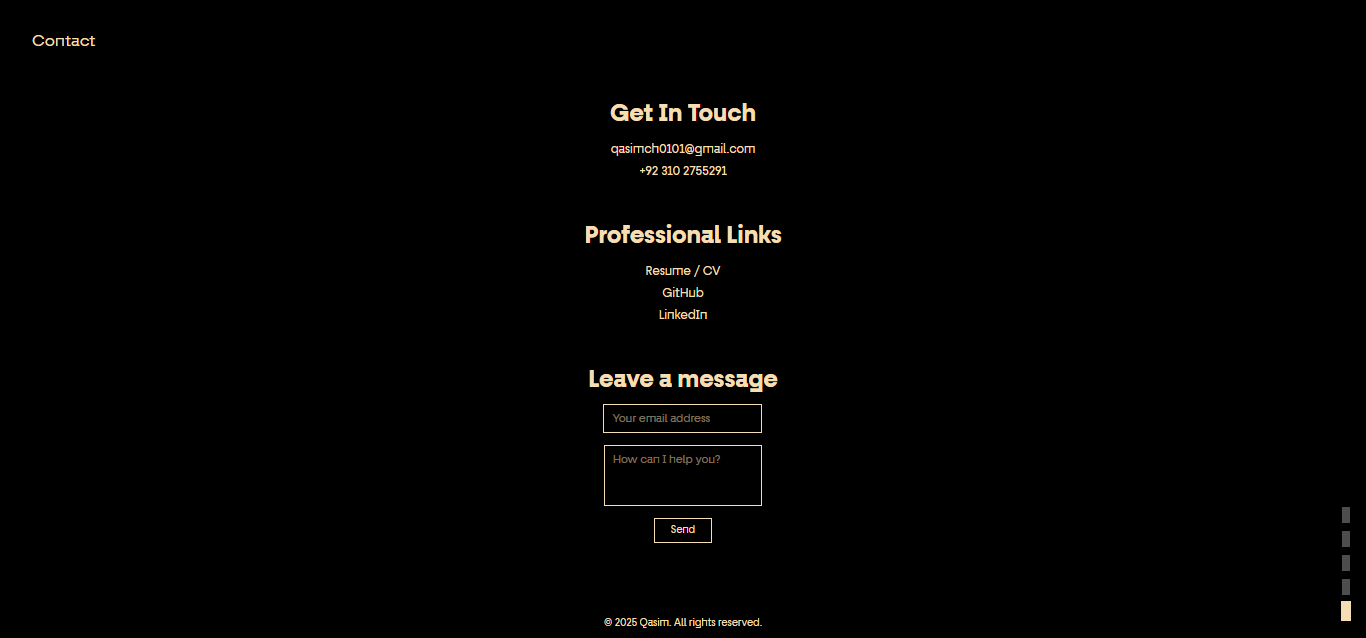
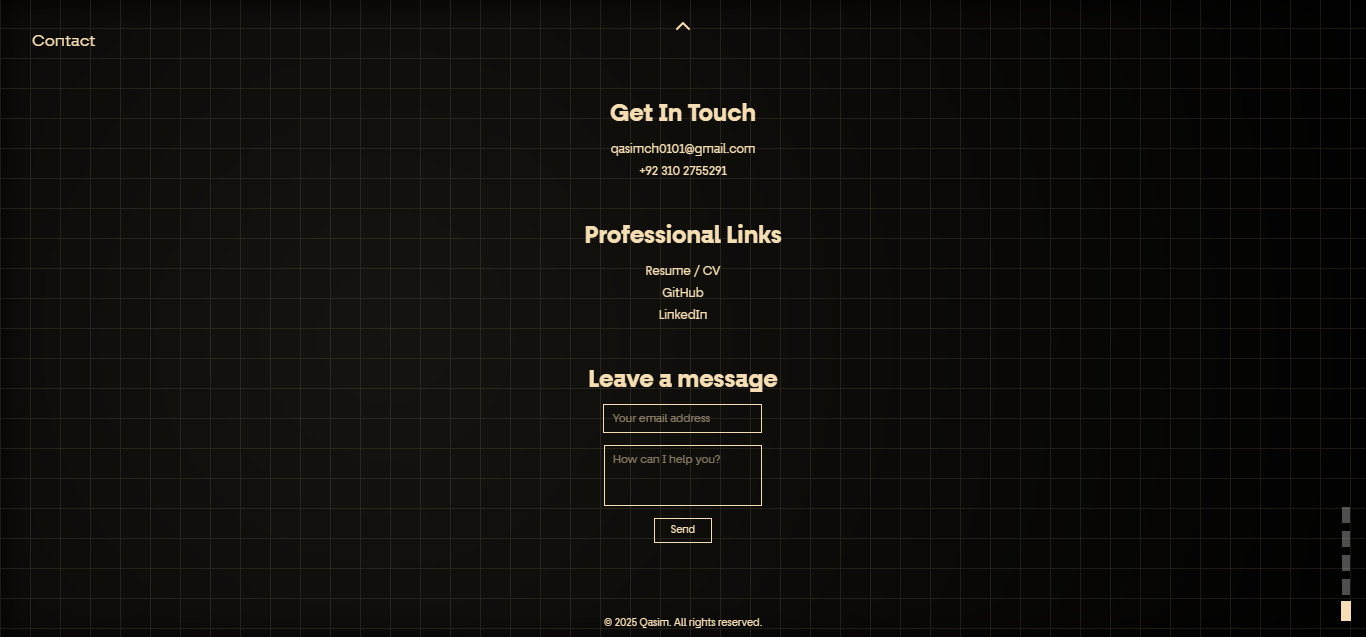
Add SEO and fix some bugs

diff --git a/src/Components/ContactSection.tsx b/src/Components/ContactSection.tsx
@@ -1,7 +1,7 @@
 import React, { useState, useEffect, useCallback} from "react";
 import { motion } from "framer-motion";
 import { ChevronUp } from "lucide-react";
-import { CustomCursor, CursorTracker } from "./subComponents/CustomCursor";
+import { CursorTracker } from "./subComponents/CursorTracker";
 
 interface FormData {
   email: string;
@@ -116,23 +116,42 @@ const ContactSection: React.FC = () => {
   };
 
   return (
-    <div className="h-screen w-full bg-black flex flex-col relative font-['Fractul'] cursor-none">
+    <div className="h-screen w-full bg-black flex flex-col relative font-['Fractul']">
+
+      <CursorTracker mouseX={mousePosition.x} mouseY={mousePosition.y} />
+
+      <div 
+        className="absolute inset-0 opacity-10 pointer-events-none z-[1]"
+        style={{
+          backgroundImage: "linear-gradient(to right, #f5deb3 1px, transparent 1px), linear-gradient(to bottom, #f5deb3 1px, transparent 1px)",
+          backgroundSize: "30px 30px",
+        }}
+      />
+
+      {/* Animated Chevron - z-20 */}
       <motion.div
         initial={{ opacity: 0 }}
-        animate={{ opacity: 1, y: [0, 8, 0] }}
+        animate={{ 
+          opacity: 1, 
+          y: [0, 8, 0] 
+        }}
         transition={{
           opacity: { delay: 2, duration: 0.5 },
-          y: { repeat: Infinity, duration: 2, ease: "easeInOut" },
+          y: { 
+            repeat: Infinity, 
+            duration: 2, 
+            ease: "easeInOut" 
+          },
         }}
-        className="absolute top-4 bottom-0 left-1/2 -translate-x-1/2 z-20"
+        className="absolute top-4 bottom-0 left-1/2 -translate-x-1/2 z-20 pointer-events-none"
       >
-        <ChevronUp className={`w-6 h-6 text-[#f5deb3]`} />
+        <ChevronUp className="w-6 h-6 text-[#f5deb3]" />
       </motion.div>
 
-      <div className="absolute top-8 left-8 text-[#f5deb3] text-base font-medium">
+      <div className="absolute top-8 left-8 text-[#f5deb3] text-base font-medium z-20">
         Contact
       </div>
-      <div className="flex-1 flex items-center justify-center px-8 sm:mt-1">
+      <div className="flex-1 flex items-center justify-center px-8 sm:mt-1 z-10">
         <div className="space-y-10 text-center">
           <div>
             <p className="text-[#f5deb3] text-2xl font-bold mb-3">
@@ -155,7 +174,7 @@ const ContactSection: React.FC = () => {
                 href="https://drive.google.com/file/d/1L9U_ECkJ07fIfk-zYz4M53lqaSLlqJ2x/view"
                 target="_blank"
                 rel="noreferrer"
-                className="text-[#f5deb3] text-xs w-30 hover:opacity-90 hover:tracking-wide transition-all"
+                className="text-[#f5deb3] cursor-pointer text-xs w-30 hover:opacity-90 hover:tracking-wide transition-all"
               >
                 Resume / CV
               </a>
@@ -163,7 +182,7 @@ const ContactSection: React.FC = () => {
                 href="https://github.com/Muhammad-Qasim-Sajid"
                 target="_blank"
                 rel="noreferrer"
-                className="text-[#f5deb3] text-xs w-30 hover:opacity-90 hover:tracking-wide transition-all"
+                className="text-[#f5deb3] cursor-pointer text-xs w-30 hover:opacity-90 hover:tracking-wide transition-all"
               >
                 GitHub
               </a>
@@ -222,7 +241,7 @@ const ContactSection: React.FC = () => {
             </div>
           </div>
         </div>
-        <p className="absolute bottom-2 text-[#f5deb3] sm:text-[10px] text-[9px] font-medium font-['Fractul']">
+        <p className="absolute bottom-2 text-[#f5deb3] sm:text-[10px] text-[9px] font-medium font-['Fractul'] z-20">
           © {new Date().getFullYear()} Qasim. All rights reserved.
         </p>
       </div>
@@ -230,7 +249,7 @@ const ContactSection: React.FC = () => {
       {/* Popup */}
       {showPopup && (
         <div
-          className={`fixed bottom-12 left-4 px-4 pl-3.5 py-2 pt-2.5 text-sm transition-transform duration-300 ${
+          className={`fixed bottom-12 left-4 px-4 pl-3.5 py-2 pt-2.5 text-sm z-50 transition-transform duration-300 ${
             popupType === "success"
               ? "bg-[#f5deb3] text-black"
               : "bg-[#f5deb3] text-red-600"
@@ -245,22 +264,6 @@ const ContactSection: React.FC = () => {
             : "Failed to send message!"}
         </div>
       )}
-
-      <div
-        className="absolute inset-0 opacity-10 pointer-events-none z-0"
-        style={{
-          backgroundImage:
-            "linear-gradient(to right, #f5deb3 1px, transparent 1px), linear-gradient(to bottom, #f5deb3 1px, transparent 1px)",
-          backgroundSize: "30px 30px",
-        }}
-      />
-      
-      <CustomCursor
-        mousePosition={mousePosition}
-        color="bg-[#f5deb3]"
-        borderColor="border-[#f5deb3]"
-      />
-      <CursorTracker mouseX={mousePosition.x} mouseY={mousePosition.y} />
     </div>
   );
 };

diff --git a/index.html b/index.html
@@ -3,38 +3,49 @@
   <head>
     <meta charset="UTF-8" />
     <meta name="viewport" content="width=device-width, initial-scale=1.0" />
+    <meta name="theme-color" content="#f5deb3" />
 
     <link rel="icon" href="/favicon.png" />
+    <link rel="manifest" href="/manifest.json" />
 
-    <title>Qasim's Portfolio</title>
-    <meta
-      name="description"
-      content="Portfolio of Muhammad Qasim, a Full-Stack Web Developer specializing in MERN stack with the edge of Next.js, building scalable applications."
-    />
-    <meta
-      name="keywords"
-      content="Muhammad Qasim, Full Stack Developer, Web Developer, Node.js, Express.js, MongoDB, Mongoose, Next.js Developer, React.js Developer, JavaScript, TypeScript Tailwind CSS, Portfolio, Responsive Web Design, UI Developer, React Projects"
-    />
+    <title>Full-Stack Web Developer - Muhammad Qasim</title>
+    <meta name="author" content="Muhammad Qasim" />
+    <meta name="keywords" content="full-stack web developer, MERN stack developer, Next.js developer, React developer developer, Node.js developer, MongoDB developer, web developer portfolio" />
+    <meta name="description" content="Muhammad Qasim - Full-Stack Web Developer specializing in MERN & Next.js. I build fast, scalable, production-ready web applications with clean architecture and modern UI." />
 
-    <!-- Open Graph (for social media) -->
-    <meta property="og:title" content="Qasim's Portfolio" />
-    <meta
-      property="og:description"
-      content="Explore my portfolio featuring my projects and skills as a Full-Stack Web Developer."
-    />
-    <meta property="og:image" content="https://qasim-dev-portfolio.vercel.app/Home.png" />
+    <link rel="canonical" href="https://qasim-dev-portfolio.vercel.app/" />
+    <meta name="robots" content="index, follow" />
+
     <meta property="og:type" content="website" />
     <meta property="og:url" content="https://qasim-dev-portfolio.vercel.app/" />
+    <meta property="og:title" content="Full-Stack Web Developer - Muhammad Qasim" />
+    <meta property="og:description" content="Explore my projects built using MERN Stack and Next.js." />
+    <meta property="og:image" content="https://qasim-dev-portfolio.vercel.app/Home.png" />
+    <meta property="og:image:alt" content="Portfolio of Muhammad Qasim" />
+    <meta property="og:image:width" content="1200" />
+    <meta property="og:image:height" content="630" />
 
-    <!-- Twitter Card -->
     <meta name="twitter:card" content="summary_large_image" />
-    <meta name="twitter:title" content="Qasim's Portfolio" />
-    <meta
-      name="twitter:description"
-      content="Explore my portfolio featuring web development projects built MERN stack with the edge of Next.js."
-    />
+    <meta name="twitter:title" content="Full-Stack Web Developer - Muhammad Qasim" />
+    <meta name="twitter:description" content="Explore my MERN + Next.js development work." />
     <meta name="twitter:image" content="https://qasim-dev-portfolio.vercel.app/Home.png" />
 
+    <script type="application/ld+json">
+    {
+      "@context": "https://schema.org",
+      "@type": "Person",
+      "name": "Muhammad Qasim",
+      "url": "https://qasim-dev-portfolio.vercel.app",
+      "jobTitle": "Full-Stack Web Developer",
+      "description": "Full-Stack Web Developer specializing in MERN Stack and Next.js",
+      "knowsAbout": ["MERN Stack", "Next.js", "React.js", "Node.js", "MongoDB", "TypeScript"],
+      "image": "https://qasim-dev-portfolio.vercel.app/Home.png",
+      "sameAs": [
+        "https://github.com/Muhammad-Qasim-Sajid",
+        "https://www.linkedin.com/in/muhammad-qasim-2874b5377/"
+      ],
+    }
+    </script>
   </head>
   <body>
     <div id="root"></div>

diff --git a/src/Components/Project/Project Components/ProjectDetailedView.tsx b/src/Components/Project/Project Components/ProjectDetailedView.tsx
@@ -1,5 +1,4 @@
-import React, { useState, useEffect, useCallback} from "react";
-import { CustomCursor } from "../../subComponents/CustomCursor";
+import React from "react";
 
 interface Challenge {
     title: string;
@@ -22,20 +21,8 @@ interface ProjectDetailedViewProps {
 }
 
 const ProjectDetailedView: React.FC<ProjectDetailedViewProps> = ({ project }) => {
-
-    const [mousePosition, setMousePosition] = useState({ x: 0, y: 0 });
-    const handleMouseMove = useCallback((e: MouseEvent) => {
-      setMousePosition({ x: e.clientX, y: e.clientY });
-    }, []);
-    useEffect(() => {
-      window.addEventListener("mousemove", handleMouseMove);
-      return () => {
-        window.removeEventListener("mousemove", handleMouseMove);
-      };
-    }, [handleMouseMove]);
-
     return (
-      <div className="min-h-screen w-full bg-[#f5deb3] text-black font-['Fractul'] cursor-none">
+      <div className="min-h-screen w-full bg-[#f5deb3] text-black font-['Fractul']">
         <div className="sm:px-30 px-7 py-15 sm:pb-23 pb-21 space-y-10">
           {/* Header */}
           <div>
@@ -135,12 +122,6 @@ const ProjectDetailedView: React.FC<ProjectDetailedViewProps> = ({ project }) =>
         <p className="text-center md:pb-3 pb-2 text-black md:text-xs text-[10px] font-medium">
           © {new Date().getFullYear()} Qasim. All rights reserved.
         </p>
-
-        <CustomCursor
-          mousePosition={mousePosition}
-          color="bg-[#000000]"
-          borderColor="border-[#000000]"
-        />
       </div>
     );
 };

diff --git a/src/Components/Project/ProjectSection.tsx b/src/Components/Project/ProjectSection.tsx
@@ -1,23 +1,10 @@
-import React, { useState, useEffect, useCallback} from "react";
+import React from "react";
 import ProjectCard from "./Project Components/ProjectCard";
-import { CustomCursor } from "../subComponents/CustomCursor";
 import BottomPointer from "../subComponents/BottomPointer";
 
 const ProjectsSection: React.FC = () => {
-
-  const [mousePosition, setMousePosition] = useState({ x: 0, y: 0 });
-  const handleMouseMove = useCallback((e: MouseEvent) => {
-    setMousePosition({ x: e.clientX, y: e.clientY });
-  }, []);
-  useEffect(() => {
-    window.addEventListener("mousemove", handleMouseMove);
-    return () => {
-      window.removeEventListener("mousemove", handleMouseMove);
-    };
-  }, [handleMouseMove]);
-
   return (
-    <div className="min-h-screen w-full bg-[#f5deb3] flex flex-col relative font-['Fractul'] cursor-none">
+    <div className="min-h-screen w-full bg-[#f5deb3] flex flex-col relative font-['Fractul']">
       <div className="absolute top-8 left-8 text-black text-base font-medium">
         Projects
       </div>
@@ -41,12 +28,6 @@ const ProjectsSection: React.FC = () => {
           />
         </div>
       </div>
-
-      <CustomCursor
-        mousePosition={mousePosition}
-        color="bg-[#000000]"
-        borderColor="border-[#000000]"
-      />
 
       <BottomPointer color="text-black" />
     </div>

diff --git a/src/Components/AboutSection.tsx b/src/Components/AboutSection.tsx
@@ -1,22 +1,9 @@
-import React, { useState, useEffect, useCallback} from "react";
-import { CustomCursor } from "./subComponents/CustomCursor";
+import React from "react";
 import BottomPointer from "./subComponents/BottomPointer";
 
 function AboutSection() {
-
-  const [mousePosition, setMousePosition] = useState({ x: 0, y: 0 });
-  const handleMouseMove = useCallback((e: MouseEvent) => {
-    setMousePosition({ x: e.clientX, y: e.clientY });
-  }, []);
-  useEffect(() => {
-    window.addEventListener("mousemove", handleMouseMove);
-    return () => {
-      window.removeEventListener("mousemove", handleMouseMove);
-    };
-  }, [handleMouseMove]);
-
   return (
-    <div className="h-screen w-full bg-[#f5deb3] flex flex-col relative font-['Fractul'] cursor-none">
+    <div className="h-screen w-full bg-[#f5deb3] flex flex-col relative font-['Fractul']">
       <div className="absolute top-8 left-8 text-black text-base font-medium tracking-tight">
         About Me
       </div>
@@ -58,12 +45,6 @@ function AboutSection() {
           </div>
         </div>
       </div>
-
-      <CustomCursor
-        mousePosition={mousePosition}
-        color="bg-[#000000]"
-        borderColor="border-[#000000]"
-      />
 
       <BottomPointer color="text-black" />
     </div>

diff --git a/src/Components/HomeSection.tsx b/src/Components/HomeSection.tsx
@@ -1,5 +1,5 @@
 import React, { useState, useEffect, useCallback } from "react";
-import { CustomCursor, CursorTracker } from "./subComponents/CustomCursor";
+import { CursorTracker } from "./subComponents/CursorTracker";
 import BottomPointer from "./subComponents/BottomPointer";
 import KineticWord from "./subComponents/KineticWord";
 
@@ -17,7 +17,7 @@ const HomeSection: React.FC = () => {
   }, [handleMouseMove]);
 
   return (
-    <div className="h-screen w-full bg-black flex items-center justify-center relative font-['Fractul'] cursor-none overflow-hidden">
+    <div className="h-screen w-full bg-black flex items-center justify-center relative font-['Fractul'] overflow-hidden">
       <div className="absolute top-8 left-8 text-[#f5deb3] text-base font-medium tracking-tight">
         Home
       </div>
@@ -41,11 +41,6 @@ const HomeSection: React.FC = () => {
         }}
       />
 
-      <CustomCursor
-        mousePosition={mousePosition}
-        color="bg-[#f5deb3]"
-        borderColor="border-[#f5deb3]"
-      />
       <CursorTracker mouseX={mousePosition.x} mouseY={mousePosition.y} />
 
       <BottomPointer />

diff --git a/src/Components/SkillsSection.tsx b/src/Components/SkillsSection.tsx
@@ -1,5 +1,5 @@
 import React, { useState, useEffect, useCallback} from "react";
-import { CustomCursor, CursorTracker } from "./subComponents/CustomCursor";
+import { CursorTracker } from "./subComponents/CursorTracker";
 import BottomPointer from "./subComponents/BottomPointer";
 
 function SkillsSection() {
@@ -16,7 +16,7 @@ function SkillsSection() {
     }, [handleMouseMove]);
 
   return (
-    <div className="h-screen w-full bg-black flex flex-col relative font-['Fractul'] cursor-none">
+    <div className="h-screen w-full bg-black flex flex-col relative font-['Fractul']">
       <div className="absolute top-8 left-8 text-[#f5deb3] text-base font-medium">
         Skills
       </div>
@@ -69,11 +69,6 @@ function SkillsSection() {
         }}
       />
 
-      <CustomCursor
-        mousePosition={mousePosition}
-        color="bg-[#f5deb3]"
-        borderColor="border-[#f5deb3]"
-      />
       <CursorTracker mouseX={mousePosition.x} mouseY={mousePosition.y} />
 
       <BottomPointer />

diff --git a/src/Components/subComponents/CursorTracker.tsx b/src/Components/subComponents/CursorTracker.tsx
@@ -1,0 +1,28 @@
+import React from "react";
+import { motion } from "framer-motion";
+
+interface CursorTrackerProps {
+  mouseX: number;
+  mouseY: number;
+}
+
+export const CursorTracker: React.FC<CursorTrackerProps> = ({ mouseX, mouseY }) => {
+  return (
+    <motion.div
+      className="fixed inset-0 z-0 pointer-events-none"
+      animate={{
+        background: `radial-gradient(1200px at ${mouseX}px ${mouseY}px, rgba(245, 222, 179, 0.6), transparent 90%)`,
+      }}
+      style={{
+        opacity: 0.15,
+        filter: 'blur(15px)',
+        mixBlendMode: 'screen',
+      }}
+      transition={{
+        type: "spring",
+        stiffness: 100,
+        damping: 20,
+      }}
+    />
+  );
+};

diff --git a/public/googleb5a6fd172c414eb9.html b/public/googleb5a6fd172c414eb9.html
@@ -1,0 +1,1 @@
+google-site-verification: googleb5a6fd172c414eb9.html
